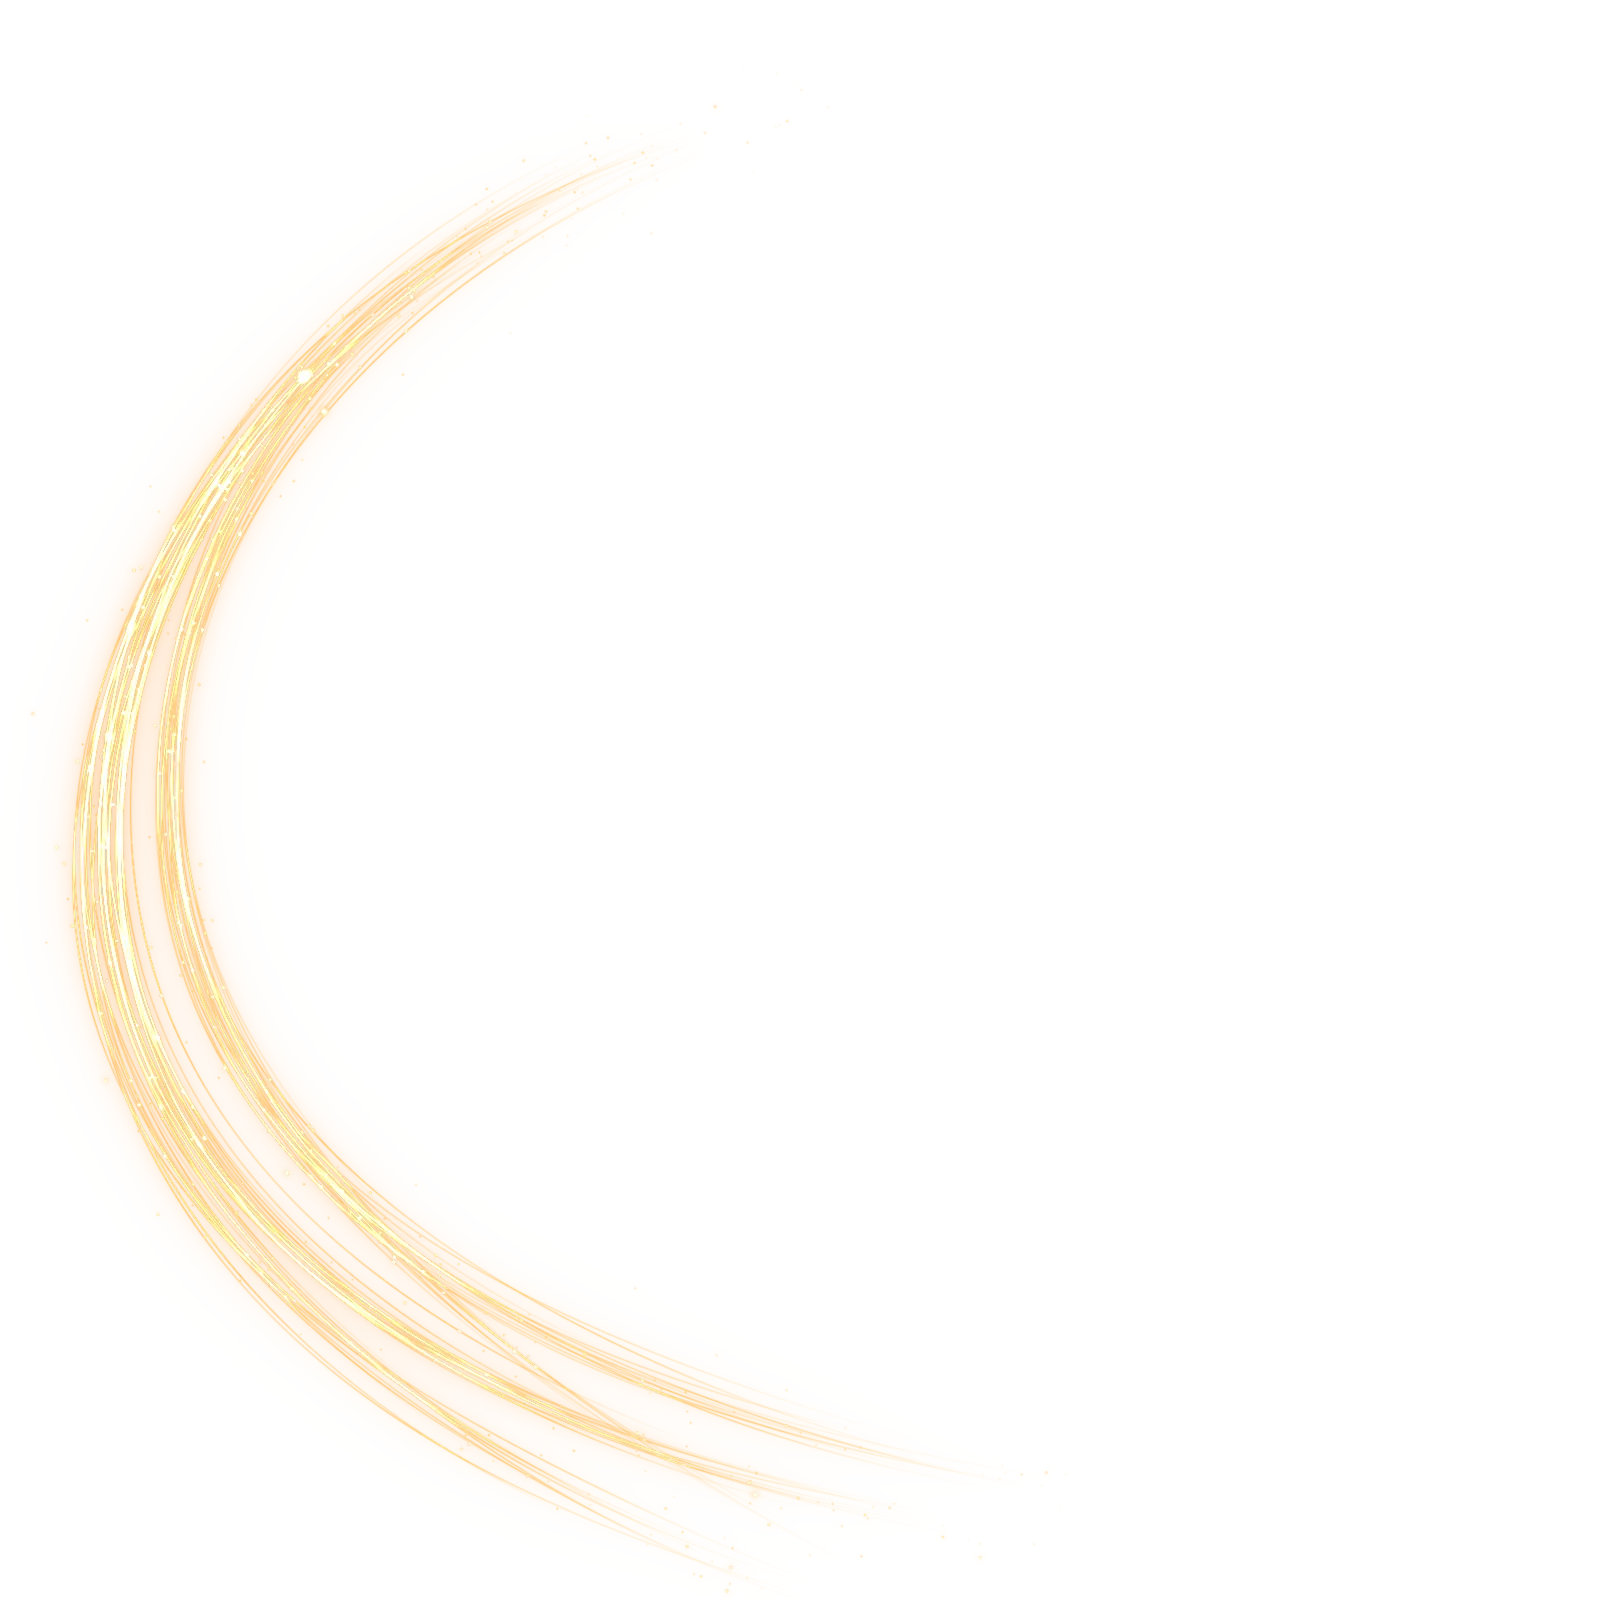
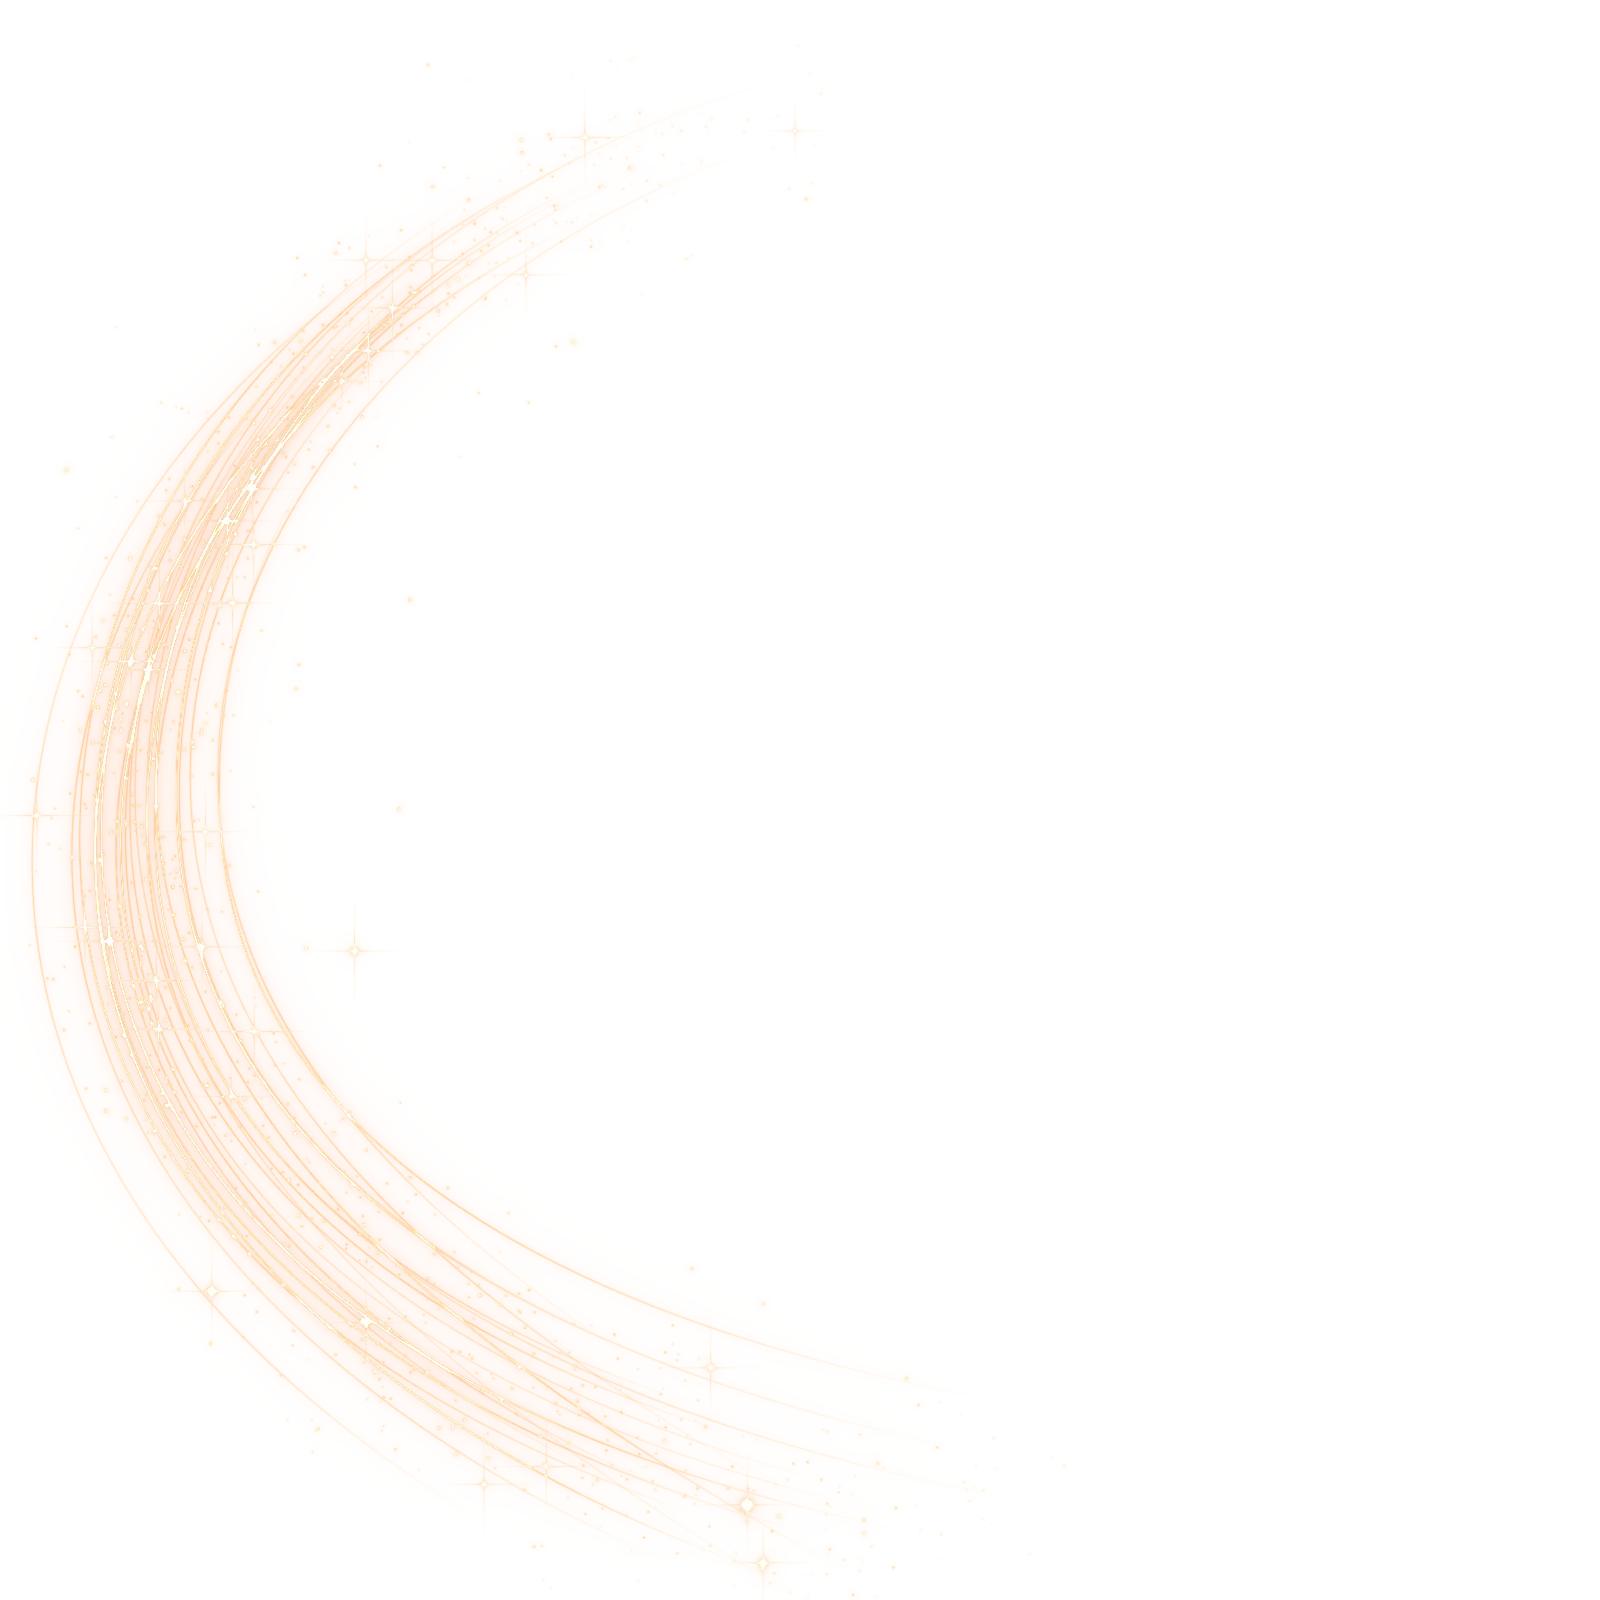
Rodapé: vieira grande realista com o botão do Instagram dentro; fios de luz como no flyer (linhas soltas, faíscas em cruz, bokeh)

Changed region(s): [[0.0312, 0.125, 0.5312, 0.9375]]

diff --git a/src/app/page.tsx b/src/app/page.tsx
@@ -172,10 +172,15 @@ async function EventPage() {
         <Seabed />
         <KorakiMark />
         <div className="footer-content grid justify-items-center gap-5">
-          <a href="https://www.instagram.com/perolaseventos/" target="_blank" rel="noopener noreferrer" className="btn ig-link px-6! py-3!">
-            <InstagramIcon />
-            Siga @perolaseventos
-          </a>
+          {/* vieira aberta na areia (scripts/fundo-mar/concha.py): o botão fica dentro da metade de baixo */}
+          <div className="concha-rodape">
+            {/* eslint-disable-next-line @next/next/no-img-element -- textura decorativa fixa em /public/2027 */}
+            <img src="/2027/concha-rodape.webp" alt="" width={1200} height={800} loading="lazy" decoding="async" aria-hidden />
+            <a href="https://www.instagram.com/perolaseventos/" target="_blank" rel="noopener noreferrer" className="btn ig-link px-6! py-3!">
+              <InstagramIcon />
+              Siga @perolaseventos
+            </a>
+          </div>
           <p className="text-xs text-fg-faint">Pérolas Eventos · {event.city}</p>
         </div>
       </footer>

diff --git a/src/app/globals.css b/src/app/globals.css
@@ -3480,3 +3480,22 @@ body:has(.painel) { background: #f6f2fb; }
 
 
 
+
+/* concha grande do rodapé: o botão senta no centro da metade de baixo (65,5% da altura da imagem) */
+.concha-rodape { position: relative; display: grid; place-items: center; width: 100%; height: 3.2rem; margin-top: clamp(9rem, 15vw, 12rem); }
+.concha-rodape > img {
+  position: absolute; left: 50%; top: 50%; width: clamp(34rem, 46vw, 42rem); max-width: none; height: auto;
+  translate: -50% -65.5%; pointer-events: none;
+}
+.concha-rodape > .ig-link { position: relative; }
+@media (max-width: 767px) { .concha-rodape > img { width: 34rem; } .concha-rodape { margin-top: 10rem; } }
+.concha-rodape + p { position: relative; margin-top: 4.6rem; }
+@media (max-width: 767px) { .concha-rodape + p { margin-top: 3.6rem; } }
+
+
+
+
+
+
+
+

diff --git a/scripts/fundo-mar/concha.py b/scripts/fundo-mar/concha.py
@@ -1,0 +1,133 @@
+"""Concha grande do rodapé (vieira aberta), no mesmo estilo realista do fundo do mar: nácar rosado por dentro,
+costelas, borda ondulada, luar vindo do alto-esquerda, sombra na areia e uma pérola na dobradiça.
+O botão "Siga @perolaseventos" fica dentro da metade de baixo (centro dela = 50% x, ALVO_Y da altura).
+Uso: python scripts/fundo-mar/concha.py public/2027  ->  concha-rodape.webp (1200x800, transparente)
+"""
+import os
+import sys
+
+import numpy as np
+from PIL import Image
+from scipy.ndimage import gaussian_filter, shift
+
+OUT = sys.argv[1]
+W, H = 1200, 800
+HX, HY = 600.0, 430.0  # dobradiça
+N = 17  # costelas
+SQ = 0.36  # achatamento da metade de baixo (ela está deitada na areia)
+RU, RL = 400.0, 520.0
+LUZ = np.array([-0.35, -0.75, 0.56]); LUZ /= np.linalg.norm(LUZ)
+MOON = np.array([0.9, 0.84, 0.98])
+yy, xx = np.mgrid[0:H, 0:W].astype(np.float32)
+
+
+def lit(n, alb, amb=0.3, spec=0.35, shin=30):
+    nx, ny, nz = n
+    ndl = np.clip(nx * LUZ[0] + ny * LUZ[1] + nz * LUZ[2], 0, 1)
+    hv = LUZ + np.array([0, 0, 1.0]); hv /= np.linalg.norm(hv)
+    sp = np.clip(nx * hv[0] + ny * hv[1] + nz * hv[2], 0, 1) ** shin
+    return alb * MOON * (amb + 0.85 * ndl)[..., None] + (sp * spec)[..., None]
+
+
+def norm3(nx, ny, nz):
+    L = np.sqrt(nx * nx + ny * ny + nz * nz) + 1e-9
+    return nx / L, ny / L, nz / L
+
+
+def nacre(th, rr):
+    """nácar: branco-rosado com reflexos que mudam de cor"""
+    base = np.array([0.98, 0.88, 0.9])
+    ir = np.stack([0.05 * np.sin(rr * 9 + th * 3), 0.05 * np.sin(rr * 7 - th * 4 + 1), 0.07 * np.sin(rr * 11 + 2)], -1)
+    return np.clip(base + ir, 0, 1)
+
+
+TMAX = 1.12
+
+
+def edge_r(th, R):
+    # borda ondulada (uma onda por costela) e ombros arredondados que descem até a dobradiça
+    sh = np.sqrt(np.clip(1 - (np.abs(th) / TMAX) ** 5, 0, 1))
+    return R * sh * (1 + 0.025 * np.abs(np.cos(N * th / 2)))
+
+
+def relevo(th, r, R):
+    """costelas arredondadas + estrias finas + linhas de crescimento (anéis), como numa vieira de verdade"""
+    rib_s = -np.sin(N * th) * 0.32 - np.sin(N * 3 * th) * 0.05
+    ring_s = np.sin(r * 0.22) * 0.02 + np.sin(r * 0.071) * 0.015
+    return rib_s * np.clip(r / R * 2.2, 0, 1), ring_s
+
+
+rgb = np.zeros((H, W, 3), np.float32)
+alpha = np.zeros((H, W), np.float32)
+
+
+def paint(mask, col):
+    global rgb, alpha
+    a = gaussian_filter(mask.astype(np.float32), 0.7)
+    rgb = rgb * (1 - a[..., None]) + col * a[..., None]
+    alpha = np.maximum(alpha, a)
+
+
+# sombra de contato na areia, debaixo da metade de baixo
+sh = np.exp(-(((xx - HX - 30) / 560) ** 2 + ((yy - HY - 0.62 * RL * SQ) / 95) ** 2) * 2.2) * 0.6
+alpha = sh.copy()
+
+# ── metade de cima: leque em pé, vemos o lado de dentro ──
+vx = xx - HX; vy = HY - yy
+r = np.hypot(vx, vy); th = np.arctan2(vx, vy)
+up = (np.abs(th) < TMAX) & (r < edge_r(th, RU)) & (vy > -10)
+t = r / RU
+rib = np.cos(N * th)
+radial = np.stack([vx / (r + 1e-6), -vy / (r + 1e-6)])
+tang = np.stack([vy / (r + 1e-6), vx / (r + 1e-6)])
+dr, ring = relevo(th, r, RU)
+conc = -0.4 * t + ring  # côncava (a borda olha pra dentro) + anéis de crescimento
+nx = tang[0] * dr + radial[0] * conc; ny = tang[1] * dr + radial[1] * conc - 0.3  # inclinada pra trás: pega luar
+n = norm3(nx, ny, np.ones_like(nx))
+alb = nacre(th, t) * (0.72 + 0.28 * np.clip(t * 1.6, 0, 1))[..., None] * (1 - 0.12 * (rib < -0.6))[..., None]
+cu = lit(n, alb)
+# borda: espessura da casca, mais clara e lilás por fora
+rim = up & (r > edge_r(th, RU) - 9)
+cu = np.where(rim[..., None], lit(n, np.array([0.86, 0.72, 0.84])) * 1.05, cu)
+paint(up, cu)
+
+# ── pérola na dobradiça (aparece acima do botão) ──
+px, py, pr = HX, HY + 14, 64
+d = np.hypot(xx - px, yy - py) / pr
+pm = d < 1
+pnz = np.sqrt(np.clip(1 - d * d, 0, 1))
+pn = ((xx - px) / pr, (yy - py) / pr, pnz)
+pc = lit(pn, np.array([0.98, 0.95, 0.96]), amb=0.35, spec=0.9, shin=70) + ((1 - pnz) ** 2.5)[..., None] * np.array([0.25, 0.2, 0.35])
+paint(pm, pc)
+
+# ── metade de baixo: deitada, aberta pra cima; primeiro a espessura da borda da frente (lado de fora) ──
+ly = (yy - HY) / SQ
+rl = np.hypot(vx, ly); thl = np.arctan2(vx, ly)
+low = (np.abs(thl) < TMAX) & (rl < edge_r(thl, RL)) & (ly > -20)
+band = shift(low.astype(np.float32), (22, 0), order=0) > 0.5
+outside = band & ~low
+ribo = np.cos(N * thl)
+on = norm3(np.sin(N * thl) * 0.5 * (vx / (rl + 1e-6)), np.full_like(vx, 0.25), np.ones_like(vx))
+co = lit(on, np.array([0.8, 0.66, 0.74]) * (0.85 + 0.15 * ribo)[..., None], amb=0.22, spec=0.1)
+paint(outside, co)
+tl = rl / RL
+dr, ringl = relevo(thl, rl, RL)
+radl = np.stack([vx / (rl + 1e-6), ly / (rl + 1e-6) * SQ]); tanl = np.stack([-ly / (rl + 1e-6) * SQ, vx / (rl + 1e-6)])
+nx = tanl[0] * dr + radl[0] * (-0.4 * tl + ringl); ny = tanl[1] * dr + radl[1] * (-0.4 * tl + ringl) - 0.55  # vira pra cima
+n = norm3(nx, ny, np.ones_like(nx) * 0.85)
+alb = nacre(thl, tl) * (0.7 + 0.3 * np.clip(tl * 1.5, 0, 1))[..., None] * (1 - 0.1 * (np.cos(N * thl) < -0.6))[..., None]
+cl = lit(n, alb)
+riml = low & (rl > edge_r(thl, RL) - 10)
+cl = np.where(riml[..., None], lit(n, np.array([0.9, 0.76, 0.86])) * 1.08, cl)
+paint(low, cl)
+
+# orelhinhas da dobradiça: duas cunhas curtas e arredondadas dos lados (o "V" de vieira)
+ear = (r < 120 - 40 * np.clip((np.abs(th) - 1.15) / 0.4, 0, 1)) & (np.abs(th) > 1.0) & (np.abs(th) < 1.62) & (vy > -26)
+ear_c = lit(norm3(np.sign(vx) * -0.2, np.full_like(xx, -0.35), np.ones_like(xx)), np.array([0.86, 0.74, 0.84]) * (0.9 + 0.1 * np.sin(r * 0.3))[..., None], amb=0.25)
+paint(ear & ~low & ~pm, ear_c)
+
+rgb *= 0.86  # mesma exposição da areia do rodapé
+rgb *= (1 + 0.03 * gaussian_filter(np.random.default_rng(3).standard_normal((H, W)), 0.8) * 3)[..., None]
+img = np.dstack([np.clip(rgb, 0, 1), np.clip(alpha, 0, 1)])
+Image.fromarray((img * 255 + 0.5).astype(np.uint8), "RGBA").save(f"{OUT}/concha-rodape.webp", "WEBP", quality=86, method=6)
+print("concha-rodape", os.path.getsize(f"{OUT}/concha-rodape.webp") // 1024, "KB", "· centro da metade de baixo em y =", round((HY + 0.5 * RL * SQ) / H * 100, 1), "%")

diff --git a/scripts/fundo-mar/ceu.py b/scripts/fundo-mar/ceu.py
@@ -97,46 +97,55 @@ def bezier_path(d):
 
 
 CURVES = [
-    ("M470 70C250 120 70 300 70 520S260 900 620 960", 16, 1.0),
-    ("M430 90C230 150 95 320 105 520S300 870 680 930", 12, 0.8),
-    ("M520 60C300 110 120 280 110 470S240 820 560 990", 10, 0.65),
-    ("M380 120C200 190 40 360 55 560S260 920 520 1000", 14, 0.9),
+    ("M470 70C250 120 70 300 70 520S260 900 620 960", 6, 1.0),
+    ("M430 90C230 150 95 320 105 520S300 870 680 930", 5, 0.8),
+    ("M520 60C300 110 120 280 110 470S240 820 560 990", 4, 0.7),
+    ("M380 120C200 190 40 360 55 560S260 920 520 1000", 5, 0.9),
 ]
 S = 1.6  # 1000 do viewBox -> 1600 px
 WF = HF = 1600
 core = np.zeros((HF, WF, 3), np.float32)
 spark = np.zeros((HF, WF, 3), np.float32)
+flare = []  # faíscas mais fortes: ganham brilho em cruz
 for d, n, power in CURVES:
     p = bezier_path(d) * S
     tg = np.gradient(p, axis=0); tg /= np.linalg.norm(tg, axis=1, keepdims=True) + 1e-9
     nm = np.stack([-tg[:, 1], tg[:, 0]], -1)
     m = len(p); t = np.linspace(0, 1, m)
-    for k in range(n):
-        # cada fio: deslocamento lateral próprio que respira ao longo do arco (abre e fecha o feixe)
-        off = rng.normal(0, 7) + rng.uniform(4, 14) * np.sin(t * rng.uniform(4, 11) + rng.uniform(0, 6))
-        a0, a1 = sorted(rng.uniform(0, 1, 2)); a0 *= 0.35; a1 = 0.65 + a1 * 0.35  # nem todo fio vai de ponta a ponta
-        env = np.clip((t - a0) / 0.12, 0, 1) * np.clip((a1 - t) / 0.12, 0, 1)
-        env *= 0.55 + 0.45 * np.sin(t * rng.uniform(8, 20) + rng.uniform(0, 6)) ** 2  # brilho que varia ao longo
-        env *= np.sin(np.pi * t) ** 0.6  # pontas do arco somem
+    # como no flyer: linhas finas e SOLTAS (bem afastadas), cada uma com sua curva, não um feixe só
+    for k, base in enumerate(np.linspace(-60, 60, n) + rng.normal(0, 8, n)):
+        off = base * (0.4 + 0.6 * t) + rng.uniform(3, 9) * np.sin(t * rng.uniform(2, 5) + rng.uniform(0, 6))
+        a0, a1 = sorted(rng.uniform(0, 1, 2)); a0 *= 0.3; a1 = 0.7 + a1 * 0.3
+        env = np.clip((t - a0) / 0.15, 0, 1) * np.clip((a1 - t) / 0.15, 0, 1)
+        env *= 0.6 + 0.4 * np.sin(t * rng.uniform(5, 12) + rng.uniform(0, 6)) ** 2
+        env *= np.sin(np.pi * t) ** 0.6
         q = p + nm * off[:, None]
-        w = power * rng.uniform(0.25, 0.7) * env
-        col = np.array([1.0, 0.84, 0.58]) * w[:, None] * 0.55  # dourado (fraco, sobre o azul, não pode virar prata)
-        splat(core, q[:, 0], q[:, 1], col)
-    # faíscas: pontinhos espalhados em volta do feixe, alguns grandes
-    ns = int(140 * power)
+        w = power * (1.0 if k == n // 2 else rng.uniform(0.3, 0.7)) * env
+        splat(core, q[:, 0], q[:, 1], np.array([1.0, 0.86, 0.7]) * w[:, None] * 0.5)
+    # faíscas espalhadas em volta das linhas (bokeh), muitas pequenas e algumas fortes
+    ns = int(300 * power)
     idx = rng.integers(0, m, ns)
-    jitter = rng.normal(0, 14, ns) + rng.normal(0, 40, ns) * (rng.random(ns) < 0.25)
+    jitter = rng.normal(0, 30, ns) + rng.normal(0, 70, ns) * (rng.random(ns) < 0.3)
     q = p[idx] + nm[idx] * jitter[:, None]
-    lum = (rng.pareto(2.0, ns) + 0.3) * np.sin(np.pi * t[idx]) ** 0.5 * power
-    splat(spark, q[:, 0], q[:, 1], np.array([1.0, 0.9, 0.72]) * lum[:, None] * 1.4)
+    lum = (rng.pareto(2.2, ns) + 0.25) * np.sin(np.pi * t[idx]) ** 0.5 * power
+    splat(spark, q[:, 0], q[:, 1], np.array([1.0, 0.88, 0.74]) * lum[:, None] * 1.3)
+    top = np.argsort(lum)[-max(3, ns // 28):]
+    flare += [(q[i, 0], q[i, 1], lum[i]) for i in top]
 
-# discreto e elegante: fios finos bem marcados, halo curto e fraco (o forte atrapalhava a leitura)
-fios = blur(core, 0.6) * 3.2 + blur(core, 3) * 0.7 + blur(core, 12) * 1.1 + blur(core, 34) * 0.6
-fios += blur(spark, 0.7) * 6 + blur(spark, 3.5) * 2.5 + blur(spark, 12) * 0.8
-# tom: núcleo quase branco, brilho em volta dourado-pêssego (como no flyer)
-warm = np.array([1.0, 0.78, 0.55])
-glow_part = blur(core, 12) * 1.1 + blur(core, 34) * 0.6
-fios = fios - glow_part + glow_part * warm
+fios = blur(core, 0.6) * 3.6 + blur(core, 2.5) * 0.8
+glow = blur(core, 6) * 1.4 + blur(core, 18) * 1.3 + blur(core, 40) * 0.6
+fios += glow * np.array([1.0, 0.74, 0.62])  # halo pêssego-rosado, como no flyer
+fios += blur(spark, 0.8) * 6 + blur(spark, 2.5) * 4 + blur(spark, 5) * 3 + blur(spark, 12) * 1.4 * np.array([1.0, 0.8, 0.68])  # bolinhas de luz (bokeh)
+# brilho em cruz nas faíscas fortes (como as estrelinhas do flyer)
+yy, xx = np.mgrid[0:HF, 0:WF].astype(np.float32)
+for fx, fy, fl in flare:
+    L = 10 + 14 * min(fl, 3)
+    X0, X1 = int(max(0, fx - L)), int(min(WF, fx + L + 1)); Y0, Y1 = int(max(0, fy - L)), int(min(HF, fy + L + 1))
+    if X0 >= X1 or Y0 >= Y1:
+        continue
+    dx = xx[Y0:Y1, X0:X1] - fx; dy = yy[Y0:Y1, X0:X1] - fy
+    cr = (np.exp(-np.abs(dy) * 1.6) * np.exp(-np.abs(dx) / (L * 0.35)) + np.exp(-np.abs(dx) * 1.6) * np.exp(-np.abs(dy) / (L * 0.35)))
+    fios[Y0:Y1, X0:X1] += cr[..., None] * np.array([1.0, 0.92, 0.82]) * 0.55 * min(fl, 3)
 save_rgba(fios, "fios-luz", q=80)
 
 
